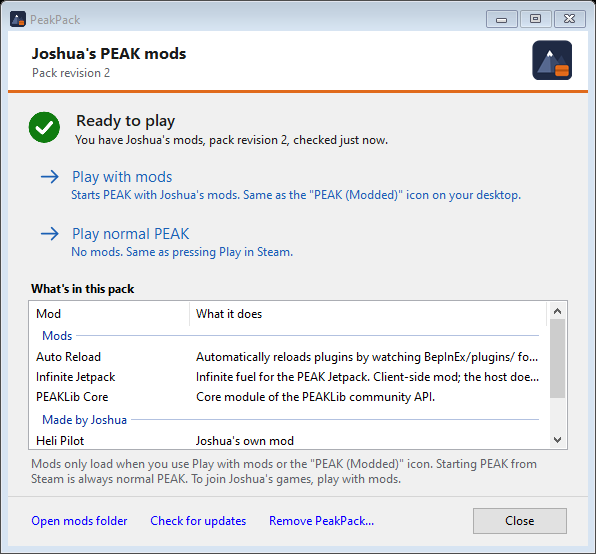
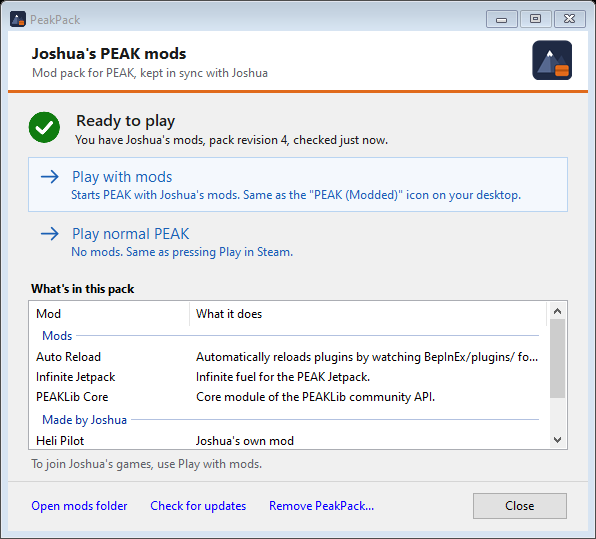
Friend window: orange primary button, default command link, focus on the main action, Try again on errors, plainer header and mode line, word-boundary descriptions (visual review)

diff --git a/src/PeakPack.App/MainForm.cs b/src/PeakPack.App/MainForm.cs
@@ -34,7 +34,8 @@ public sealed class MainForm : Form
     TableLayoutPanel _doneRow = null!;
     ListView _mods = null!;
     LinkLabel _checkLink = null!, _folderLink = null!, _removeLink = null!, _copyLink = null!;
-    Button _okButton = null!, _cancelButton = null!;
+    AccentButton _okButton = null!;   // the page's one primary action (Install / Play now / Try again)
+    Button _cancelButton = null!;     // Cancel / Close
     TableLayoutPanel _body = null!;
     Panel _footer = null!;
 
@@ -128,7 +129,7 @@ public sealed class MainForm : Form
         _copyLink = MakeLink("Copy details", () => { CopyDetails(); return Task.CompletedTask; });
         var links = new FlowLayoutPanel { AutoSize = true, WrapContents = false, Location = new Point(_ui.Px(20), _ui.Px(17)), BackColor = Theme.Face };
         links.Controls.AddRange([_checkLink, _folderLink, _removeLink, _copyLink]);
-        _okButton = new Button { FlatStyle = FlatStyle.System, Size = _ui.Sz(96, 28), Font = _ui.Body };
+        _okButton = new AccentButton { Size = _ui.Sz(104, 28), Font = _ui.Font(9f, FontStyle.Bold) };
         _cancelButton = new Button { FlatStyle = FlatStyle.System, Size = _ui.Sz(96, 28), Font = _ui.Body };
         _okButton.Click += async (_, _) => await OnOkAsync();
         _cancelButton.Click += (_, _) => Close();
@@ -195,8 +196,7 @@ public sealed class MainForm : Form
         {
             Page.Welcome => $"Set up {Host}'s mods for PEAK",
             Page.Done => "Setup complete",
-            _ => $"Pack revision {st.InstalledRevision}" + (st.LastLaunchMode is { } lm && st.LastLaunchTime is { } lt
-                ? $"   ·   last played {(lm == LaunchMode.Modded ? "with mods" : "normal PEAK")} {Ago(lt)}" : ""),
+            _ => $"Mod pack for PEAK, kept in sync with {Host}",
         });
 
         _playModded.Visible = _playVanilla.Visible = _page == Page.Main;
@@ -216,8 +216,10 @@ public sealed class MainForm : Form
         }
         if (_problem is { } p) _status.Set(StatusKind.Bad, p.Heading, p.Advice + (_page == Page.Main ? $" You can still play with the mods you have (revision {st.InstalledRevision})." : ""));
         FillModList(st);
+        _playModded.IsPrimary = true;
         ResumeLayout(true);
         SizeToContent();
+        if (!_busy) ActiveControl = _page == Page.Main ? _playModded : _okButton; // focus the main action, not Cancel/Close
     }
 
     void RenderWelcome()
@@ -275,12 +277,13 @@ public sealed class MainForm : Form
         _playVanilla.Height = _playVanilla.PreferredHeightFor(_playVanilla.Width);
         _playModded.Enabled = _playVanilla.Enabled = !_busy;
         _checkLink.Text = updating ? "Update now" : "Check for updates";
-        _okButton.Text = "Close";
-        _okButton.Visible = true;
-        _cancelButton.Visible = false;
-        _okButton.Enabled = true;
+        _okButton.Text = "Try again";
+        _okButton.Visible = _problem is not null;
+        _okButton.Enabled = !_busy;
+        _cancelButton.Text = "Close";
+        _cancelButton.Visible = true;
         AcceptButton = null;
-        CancelButton = _okButton;
+        CancelButton = _cancelButton;
 
         if (!_busy && _problem is null)
         {
@@ -307,9 +310,9 @@ public sealed class MainForm : Form
         _whatsNew.Text = latestNote is { Length: > 0 } ? $"What's new in revision {shown!.Revision}: {latestNote}" : "";
         _whatsNew.Visible = _whatsNew.Text.Length > 0;
         _modsHeader.Text = "What's in this pack";
-        _modeInfo.Visible = true;
-        _modeInfo.Text = $"Mods only load when you use Play with mods or the \"{Shortcut}\" icon. Starting PEAK from Steam is always normal PEAK." +
-                         (st.ModsRequiredToJoin ? $" To join {Host}'s games, play with mods." : "");
+        // The Steam rule is already in the "Play normal PEAK" note; only add what matters for joining.
+        _modeInfo.Visible = st.ModsRequiredToJoin;
+        _modeInfo.Text = st.ModsRequiredToJoin ? $"To join {Host}'s games, use Play with mods." : "";
     }
 
     void FillModList(InstallState st)
@@ -356,11 +359,19 @@ public sealed class MainForm : Form
         _modsHeader.Visible = _mods.Visible = _mods.Items.Count > 0;
     }
 
+    static readonly char[] WhiteSpace = ['\n', '\r', '\t', ' '];
+
+    /// <summary>One line for the list: the first sentence if it's short, else cut at a word boundary (full text in the tooltip).</summary>
     static string? OneLine(string? s)
     {
         if (string.IsNullOrWhiteSpace(s)) return null;
-        s = s.Replace('\n', ' ').Replace('\r', ' ').Trim();
-        return s.Length > 110 ? s[..107].TrimEnd() + "..." : s;
+        s = string.Join(' ', s.Split(WhiteSpace, StringSplitOptions.RemoveEmptyEntries));
+        const int max = 72;
+        var dot = s.IndexOf(". ", StringComparison.Ordinal);
+        if (dot > 0 && dot < max) return s[..(dot + 1)];
+        if (s.Length <= max) return s;
+        var cut = s.LastIndexOf(' ', max);
+        return (cut > 30 ? s[..cut] : s[..max]).TrimEnd(',', ';', ':', '-', ' ') + "...";
     }
 
     static string FormatSize(long bytes) => bytes < 1024 * 1024 ? $"{Math.Max(1, bytes / 1024)} KB" : $"{bytes / 1024d / 1024d:0.#} MB";
@@ -399,6 +410,7 @@ public sealed class MainForm : Form
     {
         if (_page == Page.Welcome) await InstallAsync();
         else if (_page == Page.Done) { _page = Page.Main; Render(); await PlayAsync(LaunchMode.Modded); }
+        else if (_problem is not null) await CheckAsync();
         else Close();
     }
 

diff --git a/src/PeakPack.App/Ui.cs b/src/PeakPack.App/Ui.cs
@@ -214,6 +214,10 @@ public sealed class CommandLink : Button
         AccessibleRole = AccessibleRole.PushButton;
     }
 
+    /// <summary>The main choice: shown with a resting outline, like the default command link in Windows dialogs.</summary>
+    [System.ComponentModel.DesignerSerializationVisibility(System.ComponentModel.DesignerSerializationVisibility.Hidden)]
+    public bool IsPrimary { get; set { field = value; Invalidate(); } }
+
     /// <summary>Layout scale (Ui.Scale); fonts come from <see cref="Control.Font"/> (title) and <see cref="NoteFont"/>.</summary>
     [System.ComponentModel.DesignerSerializationVisibility(System.ComponentModel.DesignerSerializationVisibility.Hidden)]
     public float LayoutScale { get; set; } = 1f;
@@ -254,9 +258,9 @@ public sealed class CommandLink : Button
         var g = e.Graphics;
         g.Clear(Parent?.BackColor ?? Theme.Face);
         var box = new Rectangle(0, 0, Width - 1, Height - 1);
-        if (Enabled && (_hover || _down))
+        if (Enabled && (_hover || _down || IsPrimary))
         {
-            using var fill = new SolidBrush(_down ? DownFill : HoverFill);
+            using var fill = new SolidBrush(_down ? DownFill : _hover ? HoverFill : Color.FromArgb(0xF4, 0xF8, 0xFD));
             using var line = new Pen(HoverLine);
             g.FillRectangle(fill, box);
             g.DrawRectangle(line, box);
@@ -280,5 +284,38 @@ public sealed class CommandLink : Button
             TextRenderer.DrawText(g, _note, NoteFont ?? Font, new Rectangle(TextLeft, Px(9) + titleSize.Height + Px(1), textW, Height), ink, Wrap);
         if (Focused && ShowFocusCues)
             ControlPaint.DrawFocusRectangle(g, Rectangle.Inflate(box, -Px(2), -Px(2)));
+    }
+}
+
+/// <summary>The one primary button of a page (Install, Play now): flat PEAK orange with white text, square corners,
+/// standard button size. Everything else stays a normal system button.</summary>
+public sealed class AccentButton : Button
+{
+    bool _hover, _down;
+
+    public AccentButton()
+    {
+        SetStyle(ControlStyles.UserPaint | ControlStyles.AllPaintingInWmPaint | ControlStyles.OptimizedDoubleBuffer | ControlStyles.ResizeRedraw, true);
+        FlatStyle = FlatStyle.Flat;
+        FlatAppearance.BorderSize = 0;
+        Cursor = Cursors.Hand;
+    }
+
+    protected override void OnMouseEnter(EventArgs e) { _hover = true; Invalidate(); base.OnMouseEnter(e); }
+    protected override void OnMouseLeave(EventArgs e) { _hover = _down = false; Invalidate(); base.OnMouseLeave(e); }
+    protected override void OnMouseDown(MouseEventArgs e) { if (e.Button == MouseButtons.Left) { _down = true; Invalidate(); } base.OnMouseDown(e); }
+    protected override void OnMouseUp(MouseEventArgs e) { _down = false; Invalidate(); base.OnMouseUp(e); }
+    protected override void OnEnabledChanged(EventArgs e) { Invalidate(); base.OnEnabledChanged(e); }
+
+    protected override void OnPaint(PaintEventArgs e)
+    {
+        var g = e.Graphics;
+        var back = !Enabled ? Color.FromArgb(0xE8, 0xB8, 0x98) : _down ? Theme.AccentDark : _hover ? Color.FromArgb(0xCC, 0x5E, 0x15) : Theme.Accent;
+        using (var b = new SolidBrush(back)) g.FillRectangle(b, ClientRectangle);
+        using (var p = new Pen(Theme.AccentDark)) g.DrawRectangle(p, 0, 0, Width - 1, Height - 1);
+        TextRenderer.DrawText(g, Text, Font, ClientRectangle, Color.White,
+            TextFormatFlags.HorizontalCenter | TextFormatFlags.VerticalCenter | TextFormatFlags.NoPrefix | TextFormatFlags.SingleLine);
+        if (Focused && ShowFocusCues)
+            ControlPaint.DrawFocusRectangle(g, Rectangle.Inflate(ClientRectangle, -3, -3), Color.White, back);
     }
 }
